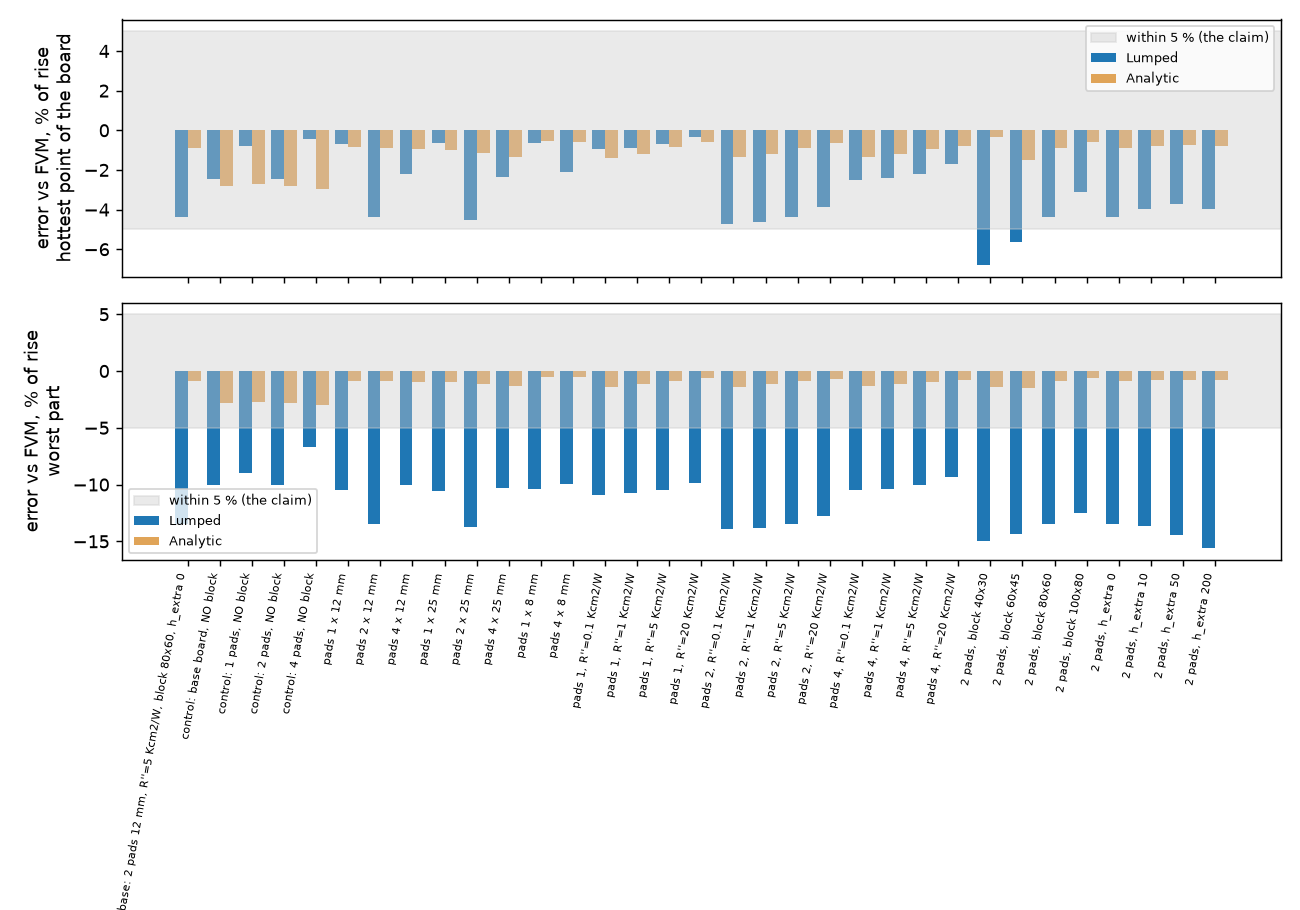
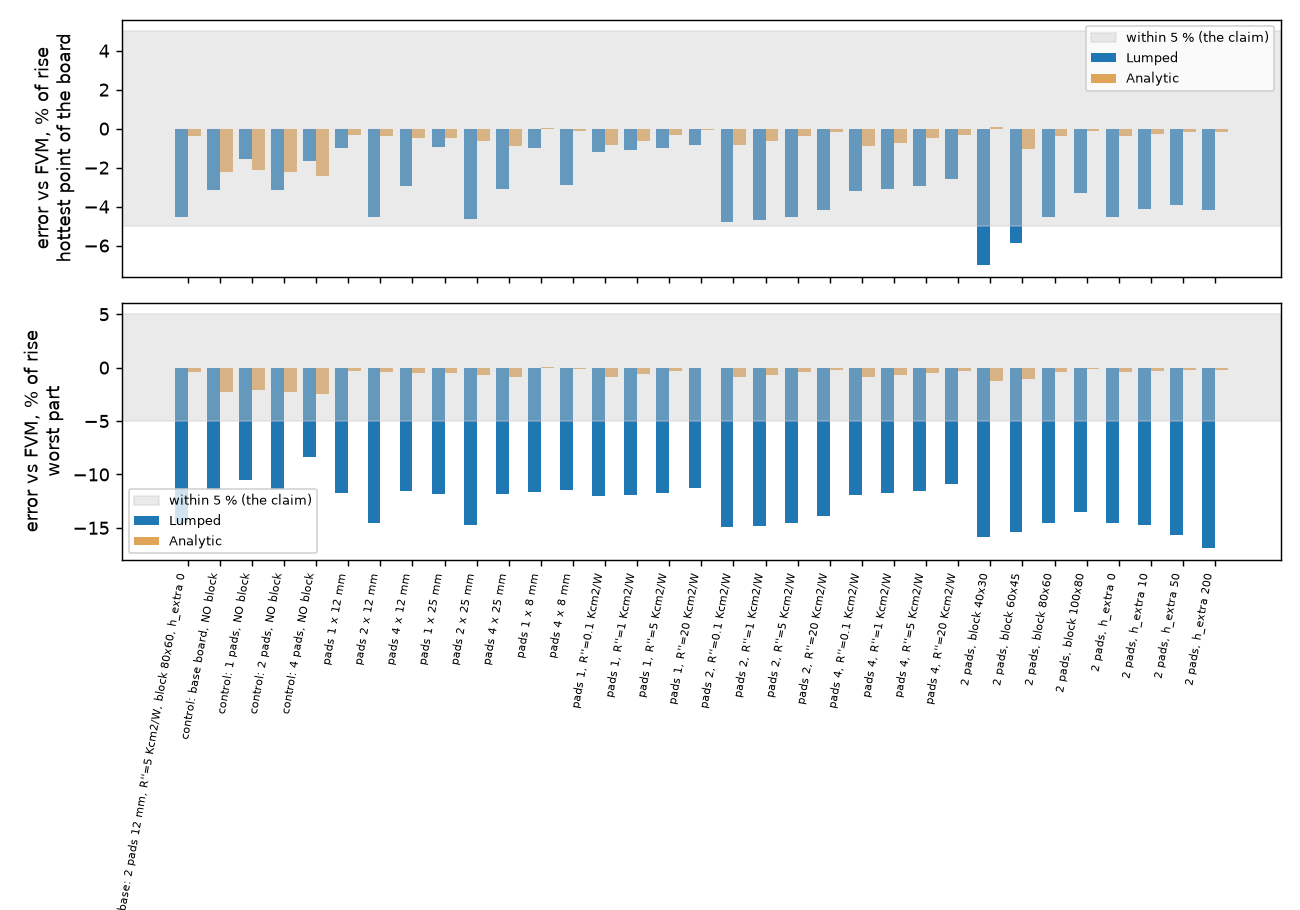
Block warning remeasure: 0.5 mm and 0.25 mm runs, per-model wording
Claude-Session: https://claude.ai/code/session_01XgeLDd5tWg6CEJL9TQpCpU

diff --git a/research/block-warning-remeasure/scripts/make_figures.py b/research/block-warning-remeasure/scripts/make_figures.py
@@ -3,11 +3,12 @@
 """!
 @file make_figures.py
 @brief Plot the error of the Lumped and Analytic against the FVM from the CSV written by study_block_pads.py (figures/fig_02_block_errors.png).
-@details Run: .venv/bin/python research/block-warning-remeasure/scripts/study_block_pads.py --set all --csv research/block-warning-remeasure/out/cell1.csv
+@details Run: .venv/bin/python research/block-warning-remeasure/scripts/study_block_pads.py --set all --cell-mm 0.5 --csv research/block-warning-remeasure/out/cell05.csv
          then .venv/bin/python research/block-warning-remeasure/scripts/make_figures.py (from the repository root).
 """
 
 import csv
+import sys
 from pathlib import Path
 
 import matplotlib
@@ -23,7 +24,7 @@ def main():
     @brief Bar chart of hottest-point and worst-part error of both models for every case of the CSV; the 5 % line is the claim under test.
     @return None.
     """
-    rows = list(csv.DictReader(open(ROOT / "out" / "cell1.csv")))
+    rows = list(csv.DictReader(open(ROOT / "out" / (sys.argv[1] if len(sys.argv) > 1 else "cell05.csv"))))
     fig, axs = plt.subplots(2, 1, figsize=(10, 7), sharex=True)
     x = range(len(rows))
     for ax, (k, t) in zip(axs, (("hot", "hottest point of the board"), ("part_max", "worst part"))):

diff --git a/research/block-warning-remeasure/README.md b/research/block-warning-remeasure/README.md
@@ -1,6 +1,6 @@
 # Metal block in the Lumped and Analytic models: re-measure of "within about 5 % of the FVM"
 
-Status: plan, scripts and the cheap (1 mm cell) runs done; the 0.5 and 0.25 mm runs, the independent 3D reference and the review are NOT done.
+Status: runs done at 1 mm (all cases), 0.5 mm (all 33 cases) and 0.25 mm (4 cases); the independent 3D reference and the review are NOT done.
 
 ## 1. Question
 
@@ -20,48 +20,58 @@ and a 6 mm part on the top face for each pad, 5 W in total (3 : 1 : 1 : 1 when u
 Error = (model - FVM) / FVM rise, percent. Sweeps: pad count 1, 2, 4; pad side 8, 12, 25 mm; interface 0.1 to 20 K cm2/W; block 40x30 to 100x80 mm; h_extra 0 to 200 W/m2K.
 CONTROL rows run the same board WITHOUT the block, so that an error of the models that is not about the block can be told apart.
 
-## 3. Results at a 1 mm cell (`--set all`, 1 mm; numbers as printed)
+## 3. Results at a 0.5 mm cell (numbers as printed by `--cell-mm 0.5 --set all`)
 
-Hottest point of the board (L = Lumped, A = Analytic), worst part, and the difference of the hottest-to-coolest part spread (sharing between pads):
+Hottest point of the board (L = Lumped, A = Analytic), worst part, and the change in the hottest-to-coolest part spread (sharing between pads), percent of the FVM rise:
 
 | Case | FVM rise K | L hot | A hot | L worst part | A worst part | L spread | A spread |
 | :-- | --: | --: | --: | --: | --: | --: | --: |
-| control, 1 pad, no block | 144.0 | -0.8 | -2.7 | -9.0 | -2.7 | 0 | 0 |
-| control, 2 pads, no block | 113.7 | -2.5 | -2.8 | -10.0 | -2.8 | -10.6 | -2.1 |
-| control, 4 pads, no block | 83.6 | -0.5 | -3.0 | -6.7 | -3.0 | -9.7 | -2.4 |
-| 1 pad 12 mm, block | 115.2 | -0.7 | -0.9 | -10.5 | -0.9 | 0 | 0 |
-| 2 pads 12 mm, block | 92.4 | -4.4 | -0.9 | -13.5 | -0.9 | -8.9 | -0.4 |
-| 4 pads 12 mm, block | 69.4 | -2.2 | -0.9 | -10.1 | -0.9 | -7.1 | -0.4 |
-| 2 pads 25 mm, block | 91.6 | -4.5 | -1.1 | -13.7 | -1.1 | -9.0 | -0.3 |
-| 2 pads, block 40x30 | 101.7 | -6.8 | -0.4 | -14.9 | -1.4 | -8.8 | +1.1 |
-| 2 pads, block 60x45 | 96.0 | -5.7 | -1.5 | -14.4 | -1.5 | -8.4 | -0.5 |
-| 2 pads, block 100x80 | 90.3 | -3.1 | -0.6 | -12.5 | -0.6 | -9.2 | -0.4 |
-| 2 pads, h_extra 200 | 72.4 | -4.0 | -0.8 | -15.6 | -0.8 | -11.5 | -0.5 |
+| control, 1 pad, no block | 144.0 | -1.6 | -2.1 | -10.5 | -2.1 | 0 | 0 |
+| control, 2 pads, no block | 113.7 | -3.1 | -2.2 | -11.4 | -2.2 | -11.6 | -1.7 |
+| control, 4 pads, no block | 83.6 | -1.6 | -2.4 | -8.3 | -2.4 | -11.1 | -2.0 |
+| 1 pad 12 mm, block | 115.4 | -1.0 | -0.3 | -11.7 | -0.3 | 0 | 0 |
+| 2 pads 12 mm, block | 92.5 | -4.5 | -0.4 | -14.5 | -0.4 | -9.6 | -0.1 |
+| 4 pads 12 mm, block | 69.5 | -2.9 | -0.5 | -11.5 | -0.5 | -8.2 | -0.1 |
+| 2 pads 25 mm, block | 91.7 | -4.6 | -0.6 | -14.7 | -0.6 | -9.7 | 0.0 |
+| 2 pads, block 40x30 | 101.8 | -7.0 | +0.1 | -15.9 | -1.3 | -9.6 | +1.3 |
+| 2 pads, block 60x45 | 96.2 | -5.8 | -1.0 | -15.4 | -1.0 | -9.1 | -0.2 |
+| 2 pads, block 100x80 | 90.4 | -3.3 | -0.1 | -13.5 | -0.1 | -10.0 | -0.1 |
+| 2 pads, h_extra 200 | 72.6 | -4.2 | -0.2 | -16.9 | -0.2 | -12.4 | -0.1 |
 
-The full table (interface sweep included) is printed by the script; the maximum absolute errors over all 28 cases are: Lumped hottest point 6.8 %, Analytic 3.0 %,
-Lumped worst part 15.6 %, Analytic 3.0 %, Lumped spread 11.5 %, Analytic 2.4 %.
+The other 22 cases (interface 0.1 to 20 K cm2/W for 1, 2 and 4 pads, pad side 8 and 25 mm, h_extra 10 and 50) are in `out/cell05.csv` (git-ignored; rerun the script). Maximum absolute errors over the 33 cases: Lumped hottest point 7.0 %, Analytic 2.4 %, Lumped worst part 16.9 %, Analytic 2.4 %, Lumped spread 12.4, Analytic 2.0.
 
-![Error of the Lumped and Analytic against the FVM, every case](figures/fig_02_block_errors.png)
+### 3.1 Cell dependence (1 mm all cases; 0.25 mm four cases)
 
-*Figure 2 (`fig_02_block_errors.png`, from `out/cell1.csv`): the grey band is the claim to be tested.*
+| Case | cell | L hot | A hot | L worst part | L spread |
+| :-- | --: | --: | --: | --: | --: |
+| 2 pads 12 mm, block | 1 / 0.5 / 0.25 mm | -4.4 / -4.5 / -4.8 | -0.9 / -0.4 / -0.3 | -13.5 / -14.5 / -15.0 | -8.9 / -9.6 / -9.9 |
+| 4 pads 12 mm, block | 1 / 0.5 / 0.25 mm | -2.2 / -2.9 / -3.9 | -0.9 / -0.5 / -0.4 | -10.1 / -11.5 / -12.6 | -7.1 / -8.2 / -9.0 |
+| 2 pads, block 40x30 | 1 / 0.5 / 0.25 mm | -6.8 / -7.0 / -7.3 | -0.4 / +0.1 / +0.2 | -14.9 / -15.9 / -16.3 | -8.8 / -9.6 / -10.0 |
+| control, 2 pads, no block | 1 / 0.5 / 0.25 mm | -2.5 / -3.1 / -3.7 | -2.8 / -2.2 / -2.1 | -10.0 / -11.4 / -12.1 | -10.6 / -11.6 / -12.1 |
 
-## 4. What the numbers say (1 mm cell, to be repeated at 0.5 mm)
+The errors against the FVM grow slowly in size for the Lumped as the FVM reference is refined (the Lumped is its own network, the FVM converges); the Analytic improves. Conclusions do not change between 1 and 0.25 mm. The 1 mm table of the first pass is printed by `--cell-mm 1.0`.
 
-1. **Analytic**: within 5 % on the hottest point and on every part in all 28 cases (0.4 to 3.0 %); the control without a block is already -2.7 to -3.0 %, so the block adds little.
-2. **Lumped, hottest point of the board**: -0.4 to -6.8 %; it goes outside 5 % when the block is small against the board (40x30 and 60x45 mm: -6.8 and -5.7 %) and with two pads (-4.4 to -4.5 %, near the limit). With one or four pads it is -0.4 to -2.3 %.
-3. **Lumped, the temperature of a part**: -6 to -16 %, NOT within 5 %. The control without a block is -6.7 to -10.0 %, so most of this is the known small-part limit of the Lumped (a 6 mm part at a 1 mm cell), but the block adds 1.5 to 5 points. The claim "within about 5 %" was about the hottest point; for a part the Lumped must not be called 5 %.
-4. **Heat sharing between pads**: the Lumped spread between the hot and the cool part is 7 to 11.5 points of the rise too small (-10.6 and -9.7 also without the block): it spreads heat between the parts more than the FVM. The Analytic is within 2.4 points.
-5. Pad area, interface resistance (0.1 to 20 K cm2/W) and the face h on the block move the errors by under 2 points; the dominant factors are the block size against the board and the pad count for the Lumped.
+![Error of the Lumped and Analytic against the FVM at 0.5 mm, every case](figures/fig_02_block_errors.png)
+
+*Figure 2 (`fig_02_block_errors.png`, from `out/cell05.csv`): the grey band is the claim to be tested.*
+
+## 4. Where "within about 5 %" holds and where not
+
+1. **Analytic**: holds everywhere tested (hottest point and parts 0.0 to 2.4 %; the control without a block is already -2.1 to -2.4 %, so the block adds nothing, it improves).
+2. **Lumped, hottest point**: holds for 1 and 4 pads on a block of at least 80 x 60 mm on this 100 x 80 mm board (-1.0 to -3.3 %); borderline with 2 pads (-4.2 to -4.8 %, the control is -3.1) and fails when the block is small against the board (40x30 mm -7.0 %, 60x45 mm -5.8 %).
+3. **Lumped, the temperature of a part on a block**: does NOT hold, -8 to -17 % (control without a block -8.3 to -11.4 %: most is the known small-part limit of the Lumped, the block adds 1 to 5 points).
+4. **Heat shared between pads**: the Lumped spread between the hot and the cool part is 8 to 12 points of the rise too small (also -11 without a block); the Analytic is within 2 points.
+5. Pad area (8 to 25 mm), interface (0.1 to 20 K cm2/W) and h on the free face move the errors by at most 2 points (3 points for the Lumped part at h_extra 200).
 
 ## 5. Not done, not verified
 
-* 0.5 and 0.25 mm cells (the claim of 5 % is at a 1 mm cell in the old study, so the 1 mm table is the like-for-like one; the finer reference may change the sign and size).
-* The independent 3D reference (`research/independent-fem-edge`) and the 3D solid: the FVM is the only reference here, so a common error of the layered models is invisible.
-* The block temperature and the heat into the block per pad: the Lumped and Analytic results do not report them (the columns are nan), so the sharing is judged by the part temperatures.
-* One metal and thickness (1.5 mm Al); vias; a block off the pads' axis; cases with fins. The earlier 74 cases are not re-run.
+* The independent 3D reference (`research/independent-fem-edge`) and the 3D solid were not run: the FVM is the only reference, so an error common to the layered models is invisible.
+* The 0.25 mm check covers 4 cases only.
+* Block temperature and the heat into the block per pad are not reported by the Lumped and Analytic (columns nan); sharing is judged by the part temperatures.
+* One metal and thickness (1.5 mm Al); no vias, no fins, one board size; the old 74 cases were not re-run.
 * Not reviewed by the reviewer agent.
 
 ## 6. What was read and what was not verified
 
 No literature was needed (the question is about the program against itself). The old study README of `research/block-and-fins` and `docs/validation.md` 17 were read for the claim. Reproduced: the script reruns on the program as it is
-(tree `development`), 1 mm cell only. Nothing from outside the repository.
+(tree `development`), 1, 0.5 and (four cases) 0.25 mm. Nothing from outside the repository.

diff --git a/research/block-warning-remeasure/INTEGRATION.md b/research/block-warning-remeasure/INTEGRATION.md
@@ -1,8 +1,25 @@
-# Integration: wording of the metal-block warning (proposal, nothing changed in the program)
+# Integration: wording of the metal-block warning (proposal; nothing changed in the program)
 
-Proposal after the 1 mm results of `README.md` (to be confirmed at 0.5 mm and by the reviewer before a `fix/` branch):
+Measured (README sections 3 and 4, cells 1, 0.5 and 0.25 mm, FVM as the reference, synthetic 100 x 80 mm two-layer board, 1.5 mm Al plate, 1 to 4 pads, one board size):
+the Analytic reads the hottest point and every part within 2.4 % of the FVM; the Lumped reads the hottest point 1.0 to 7.0 % too cool (above 5 % with a small block or two pads) and the temperature of a part
+8 to 17 % too cool (7 to 11 of those points are its small-part limit that exists without a block), and shares the heat between pads too evenly (8 to 12 points of the rise).
 
-* Replace "within about 5 % of the FVM in the tests" (`api.py` 1053, `gui/panels.py` 917, `help/index.html`, `docs/models.md`, `docs/validation.md` 17) by text of this form:
-  "on a board with one to four pads under parts the Analytic reads the hottest point within 3 % of the FVM and the Lumped within 7 % (2 to 7 % too cool; more when the block is small against the board); the Lumped reads the temperature of a part 6 to 16 % too cool and shares the heat between pads too evenly: use the FVM, FDM or 3D solid for the temperature of a part on a block."
-* Numbers to be replaced by the 0.5 mm values once run. Impact: text only, no number moves; the warning stays one line per run.
-* Decision for the maintainer: warn per model (Analytic 3 %, Lumped 7 % and the part limit) or keep one text.
+## Proposed wording (per model, one sentence each; the model name decides which one a run shows)
+
+* Analytic (`api.py:1053` text for `analytic`): "the metal block is represented as a graph of tiles in the Green-function correction: within about 3 % of the FVM for the hottest point and for the parts in the tests of research/block-warning-remeasure (one to four pads, one board size); steady state only".
+* Lumped (text for `lumped`): "the metal block is represented as one more layer of the ring network: the hottest point of the board is 1 to 7 % too cool against the FVM in the tests (more when the block is small against the board or when two pads share it), the temperature of a part on the block 8 to 17 % too cool and the heat is shared between pads too evenly; use the FVM, FDM or 3D solid for the temperature of a part on a block; steady state only".
+* Keep the pointer "(docs/validation.md section 17)" and add "section 17.x" for the new table when adopted.
+
+## Places to change (a `fix/` branch, text only, no number moves)
+
+| File | Place | Change |
+| :-- | :-- | :-- |
+| `pcbthermal/api.py` | line 1053, the f-string with `how` | one text per model as above (the loop over `("lumped", ...), ("analytic", ...)` needs a second field) |
+| `pcbthermal/gui/panels.py` | line 917, the QLabel `only` | "...in steady state only (Analytic within about 3 % of the FVM, Lumped less accurate for the temperature of a part: see the warning)" |
+| `pcbthermal/help/index.html` | line 216, the "metal block in every model" item | replace "both within about 5 % of the FVM in 74 test cases" by the two sentences |
+| `docs/models.md` | line 132 | same |
+| `docs/validation.md` | section 17 | add the table of this folder (several pads, control without block) and say that the 74 cases had one pad |
+| tests | `tests/test_block_models.py` lines 46, 58 assert only the words "ring network", "tiles", "local corrections"; no test holds the 5 % text; add one that the Lumped text contains "part" and the Analytic text "3 %"; `tests/test_help.py` word list unaffected unless a word is added |
+
+Not for the wording: the Lumped part error without a block is a separate known limit (small parts at a 1 mm cell, `docs/validation.md` 31), not a block defect.
+Risks: the numbers are one board family and the FVM as the only reference (README 5); the reviewer should re-run, add the independent 3D reference and confirm before the `fix/` branch.
